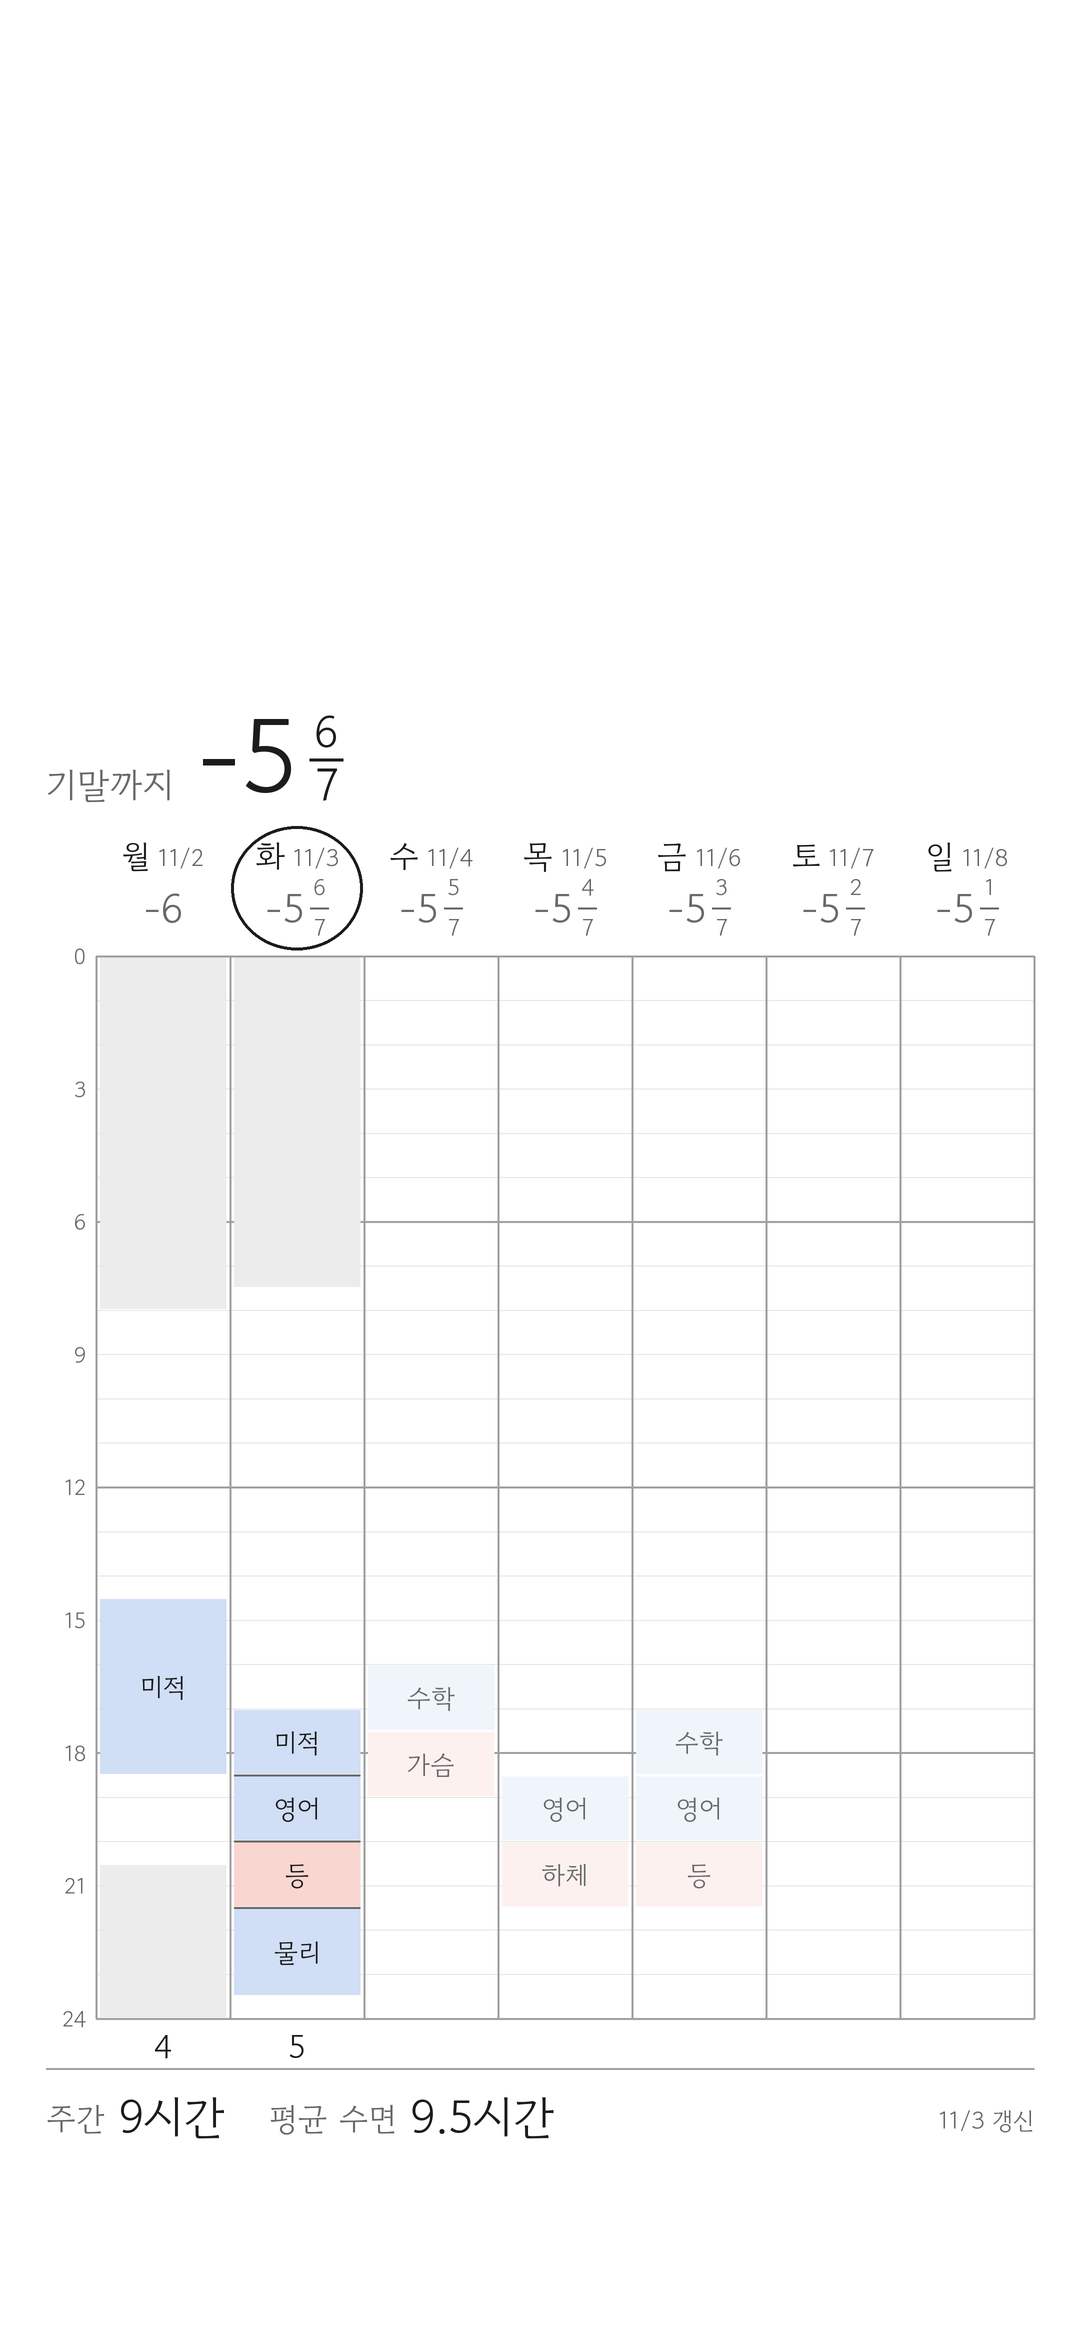
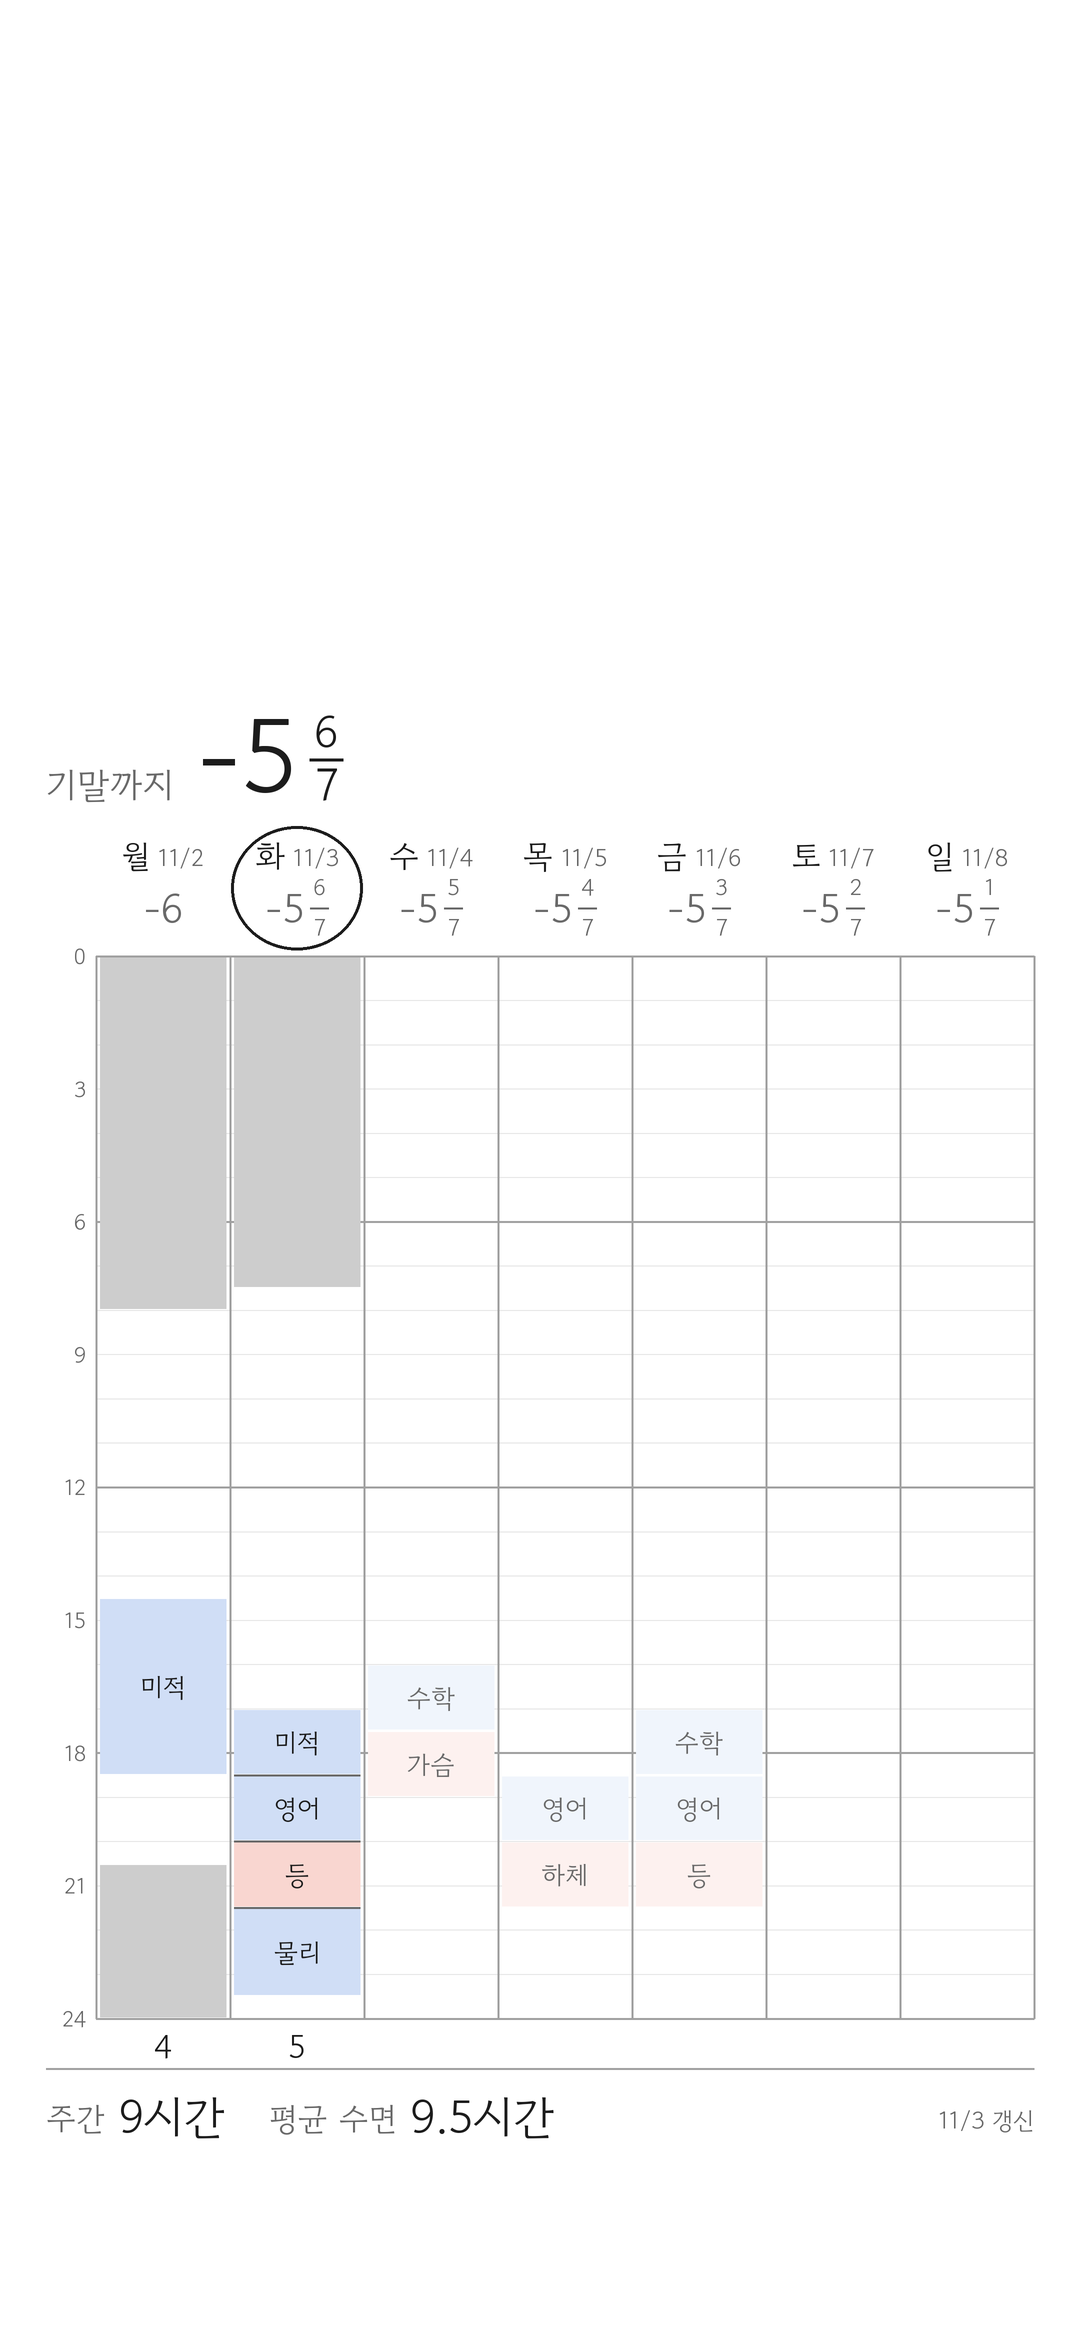
Darker sleep fill
Claude-Session: https://claude.ai/code/session_016sgH3U9eL8kEJgSR4TfZt2

Changed region(s): [[0.0917, 0.4056, 0.3361, 0.5615], [0.0917, 0.7799, 0.2139, 0.8735]]

diff --git a/make.py b/make.py
@@ -26,7 +26,7 @@ BLUE = INK    # 글자색 (파랑 글자 쓰지 않음)
 RED = INK     # 글자색 (빨강 글자 쓰지 않음)
 BLUE_FILL = (208, 222, 246)    # 한 공부
 RED_FILL = (249, 214, 208)     # 한 공부 외
-SLEEP_FILL = (236, 236, 236)   # 수면
+SLEEP_FILL = (205, 205, 205)   # 수면
 BLUE_PLAN = (240, 245, 252)    # 해야 할 공부
 RED_PLAN = (253, 241, 239)     # 해야 할 운동·일정
 TOP_EMPTY = 0.30      # 위쪽 시계 자리
